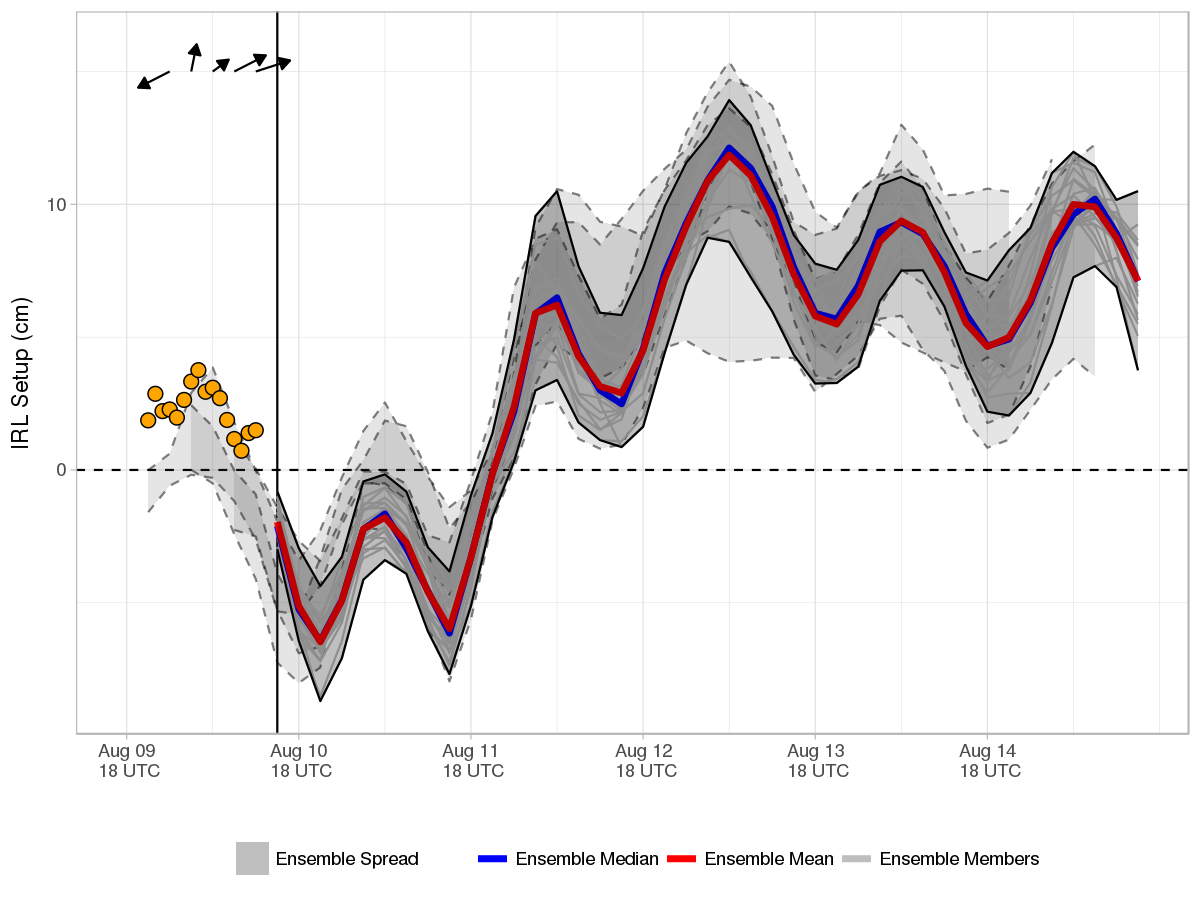
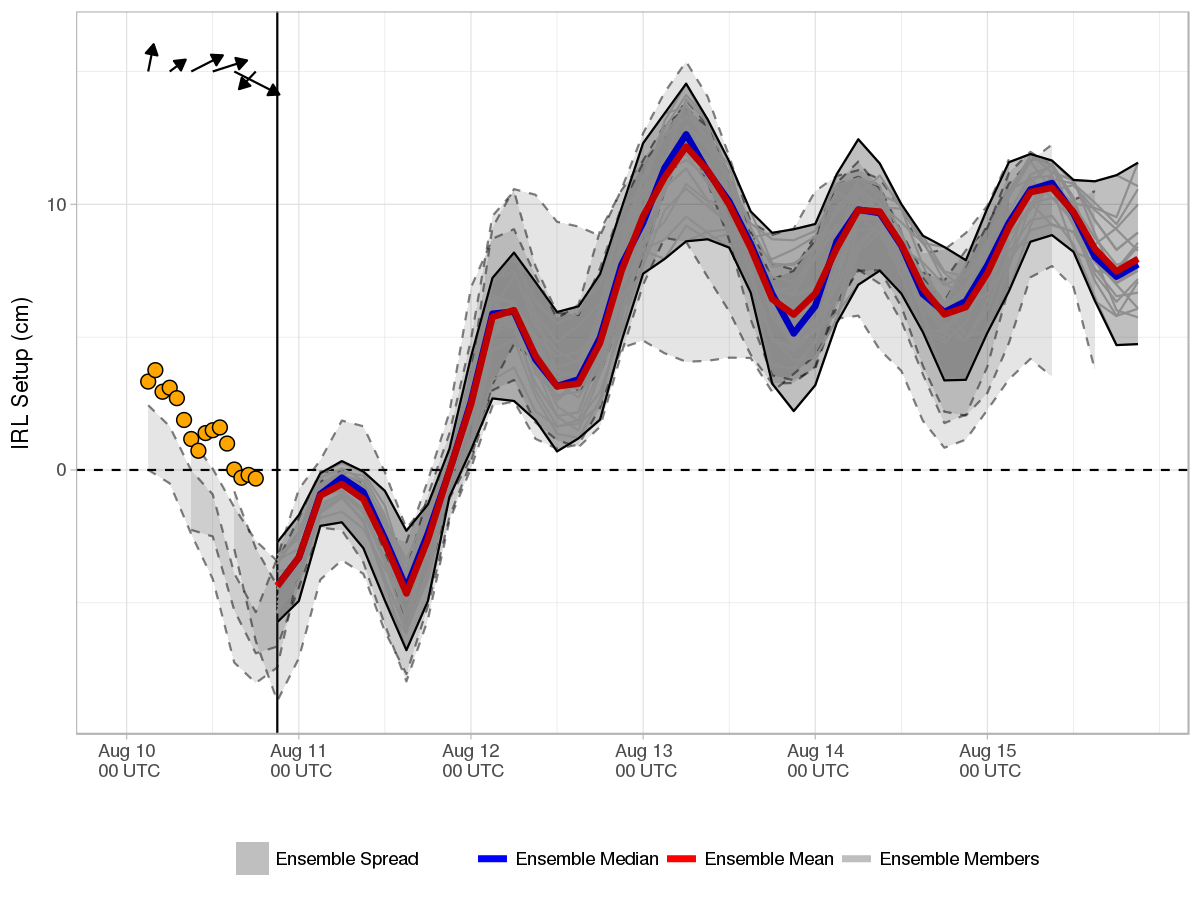
Forecast Update

diff --git a/docs/index.md b/docs/index.md
@@ -1,9 +1,9 @@
-Current Forecast 2018-08-10, Cycle 06UTC
+Current Forecast 2018-08-10, Cycle 12UTC
 ----------------------------------------
 
 [![](img/raw_setup.png)](https://fit-winds.github.io/IRLSetup/img/raw_setup.png)
 
-> Forecast valid 2018-08-10 08:25:58.
+> Forecast valid 2018-08-10 14:26:54.
 
 Explanation
 -----------
@@ -17,7 +17,7 @@ star), and Sebastian, FL (white star). In general, southerly (northerly)
 winds result in increased water elevation near Titusville (Sebastian)
 and positive (negative) setup.
 
-The current cycle 2018-08-10 06UTC 0.5° [Global Ensemble Forecast System
+The current cycle 2018-08-10 12UTC 0.5° [Global Ensemble Forecast System
 (GEFS)](https://www.ncdc.noaa.gov/data-access/model-data/model-datasets/global-ensemble-forecast-system-gefs)
 mean and median forecasts of setup are represented by the red and blue
 curves, respectively. Ensemble spread from the current and three
